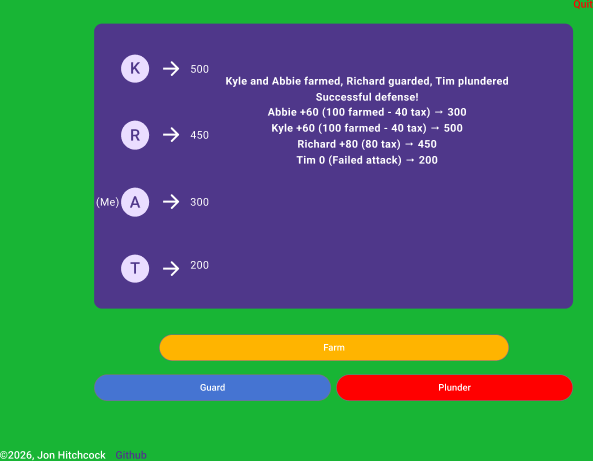
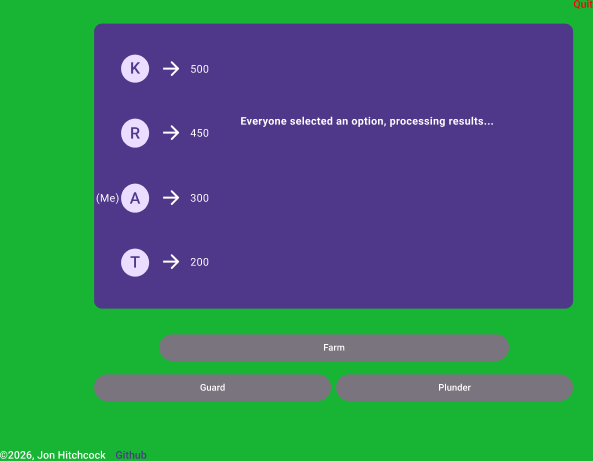
docs: Swapped name of 2 of the game pages to better reflect their order in the game. Added images into the README

diff --git a/README.md b/README.md
@@ -15,10 +15,18 @@ A brief description of the application here. Lorem ipsum dolor sit amet, consect
 Online video games are a hugely profitable industry. However, many online games have shifted away from a focus on the fun of being together, and instead focus heavily on content that is expensive to develop and maintain. Games don't need to be like this. Introducing Peasants and Plunderers, a game designed to be simple to implement while only using a trivial amount of server resources. Despite this, it is still designed to be fun and invite the kind of camaraderie that board games of past decades brought, while being playable with friends online.
 
 ### Design
-
-![Design image](placeholder.png)
-
-Lorem ipsum dolor sit amet, consectetur adipiscing elit, sed do eiusmod tempor incididunt ut labore et dolore magna aliqua. Ut enim ad minim veniam, quis nostrud exercitation ullamco laboris nisi ut aliquip ex ea commodo consequat. Duis aute irure dolor in reprehenderit in voluptate velit esse cillum dolore eu fugiat nulla pariatur. Excepteur sint occaecat cupidatat non proident, sunt in culpa qui officia deserunt mollit anim id est laborum.
+Users register here:
+![Register page image](assets/imgs/Register-Page.png)
+A similar page, but for those who already have an account:
+![Login page image](assets/imgs/Login-Page.png)
+The "main" page, after someone logs in:
+![Landing page image](assets/imgs/Landing-Page.png)
+After everyone has decided whether to "farm", "guard" or "plunder"; a similar screen should display while the user is waiting on others:
+![Game page image 1](assets/imgs/Game-Page1.png)
+The results after a round is processed:
+![Game page image 2](assets/imgs/Game-Page2.png)
+The end of a game. Kyle has won:
+![Game page image 3](assets/imgs/Game-Page3.png)
 
 ```mermaid
 sequenceDiagram
@@ -58,8 +66,8 @@ I am going to use the required technologies in the following ways.
 
 For this deliverable I did the following. I checked the box `[x]` and added a description for things I completed.
 
-- [ ] I completed the prerequisites for this deliverable (Git commit requirement)
-- [ ] Proper use of Markdown
+- [x] I completed the prerequisites for this deliverable (Git commit requirement)
+- [x] Proper use of Markdown
 - [x] A concise and compelling elevator pitch
 - [x] Description of key features
 - [x] Description of how you will use each technology including your 3rd party API and use of WebSocket
